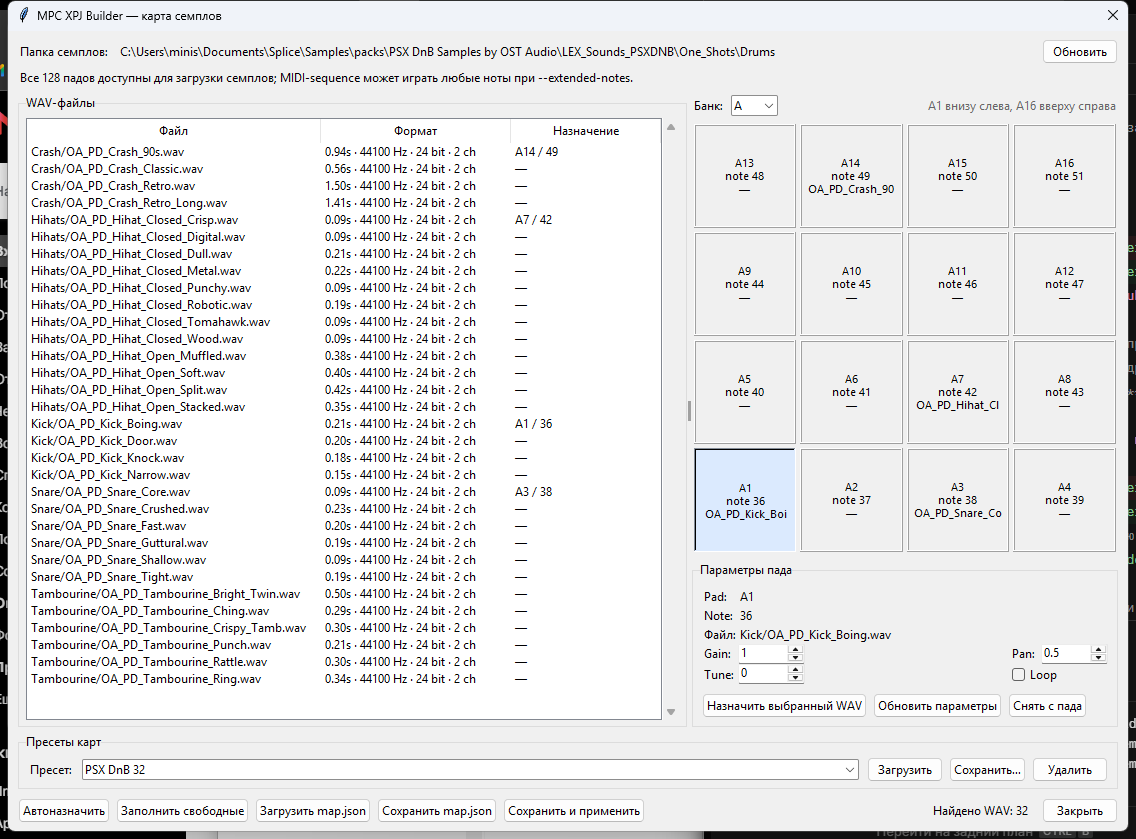
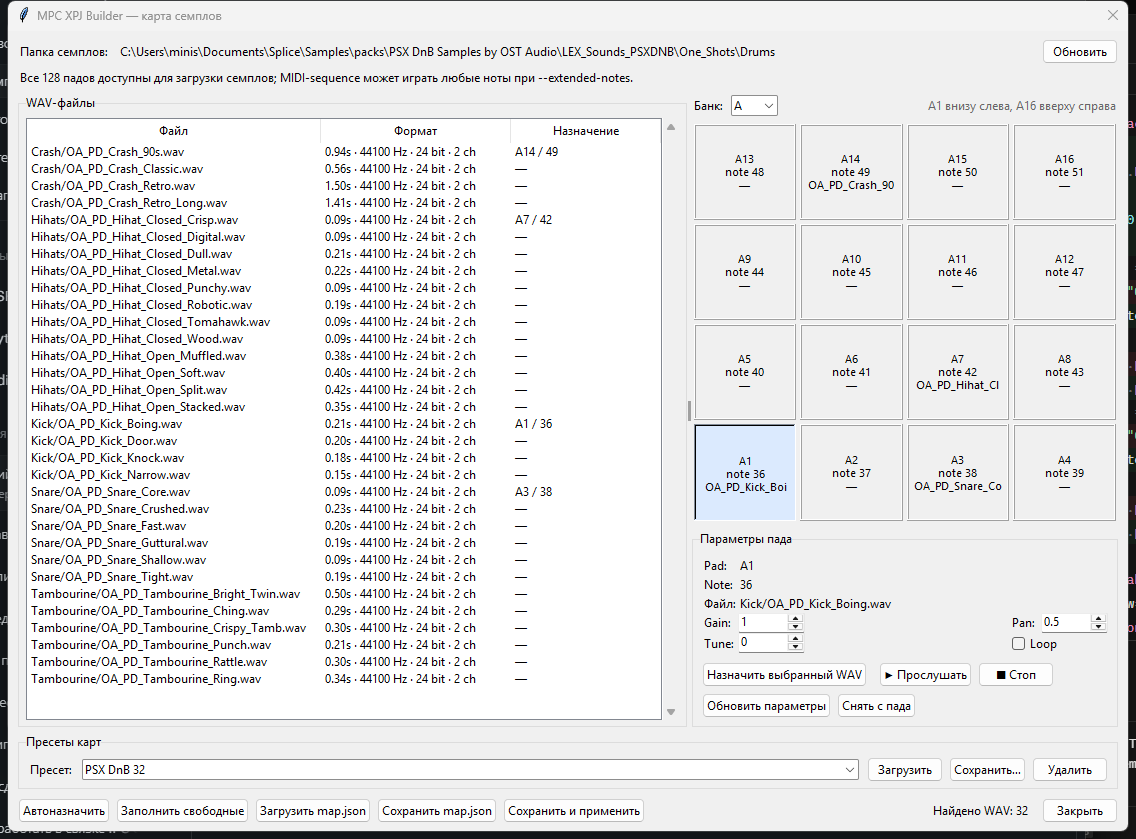
Add WAV preview to map editor

diff --git a/gui_map.py b/gui_map.py
@@ -5,8 +5,9 @@ from __future__ import annotations
 import tkinter as tk
 from pathlib import Path
 from tkinter import filedialog, messagebox, simpledialog, ttk
-from typing import Callable
+from typing import Callable, Sequence
 
+import audio_preview
 import kit_map
 import map_presets
 from errors import ValidationError
@@ -17,6 +18,27 @@ PAD_GRID_ROWS = 4
 def pad_number_at(row: int, column: int) -> int:
     """Номер пада для позиции сетки: A1 внизу слева, A16 вверху справа."""
     return (PAD_GRID_ROWS - 1 - row) * 4 + column + 1
+
+
+def preview_source(
+    items: Sequence[kit_map.WavItem],
+    assignments: dict[int, kit_map.PadAssignment],
+    selected_relative: str | None,
+    selected_pad: int | None,
+    folder: Path | None,
+) -> tuple[Path | None, str | None]:
+    """Выбрать WAV для прослушивания: сначала выделение в списке, потом пад."""
+    if selected_relative:
+        for item in items:
+            if item.relative == selected_relative:
+                return item.path, item.relative
+    if selected_pad is not None and folder is not None:
+        assignment = assignments.get(selected_pad)
+        if assignment is not None:
+            path = folder / assignment.file
+            if path.is_file():
+                return path, assignment.file
+    return None, None
 
 
 class MapEditorWindow(tk.Toplevel):
@@ -56,6 +78,8 @@ class MapEditorWindow(tk.Toplevel):
         self.loop_var = tk.BooleanVar(value=False)
         self.status_var = tk.StringVar(value="Выберите пад и WAV.")
         self.preset_var = tk.StringVar(value="")
+        self.preview = audio_preview.AudioPreview()
+        self._preview_after: str | None = None
 
         self._build_ui()
         self._load_note_map()
@@ -190,14 +214,27 @@ class MapEditorWindow(tk.Toplevel):
             buttons, text="Назначить выбранный WAV", command=self._assign_selected_wav
         )
         self.assign_button.pack(side="left")
+        self.play_button = ttk.Button(
+            buttons, text="▶ Прослушать", command=self._play_preview
+        )
+        self.play_button.pack(side="left", padx=(12, 0))
+        self.stop_button = ttk.Button(
+            buttons, text="■ Стоп", command=self._stop_preview
+        )
+        self.stop_button.pack(side="left", padx=(6, 0))
+
+        edit_buttons = ttk.Frame(detail)
+        edit_buttons.grid(
+            row=6, column=0, columnspan=4, sticky="ew", pady=(6, 0)
+        )
         self.update_button = ttk.Button(
-            buttons, text="Обновить параметры", command=self._update_params
+            edit_buttons, text="Обновить параметры", command=self._update_params
         )
-        self.update_button.pack(side="left", padx=6)
+        self.update_button.pack(side="left")
         self.remove_button = ttk.Button(
-            buttons, text="Снять с пада", command=self._remove_assignment
+            edit_buttons, text="Снять с пада", command=self._remove_assignment
         )
-        self.remove_button.pack(side="left")
+        self.remove_button.pack(side="left", padx=6)
 
         preset_bar = ttk.LabelFrame(self, text="Пресеты карт", padding=(8, 6))
         preset_bar.grid(row=2, column=0, sticky="ew", padx=10, pady=(6, 0))
@@ -433,6 +470,14 @@ class MapEditorWindow(tk.Toplevel):
             )
 
     def _refresh_details(self) -> None:
+        has_selection = bool(self.tree.selection())
+        has_pad_sample = (
+            self.selected_pad is not None
+            and self.selected_pad in self.assignments
+        )
+        self.play_button.configure(
+            state="normal" if (has_selection or has_pad_sample) else "disabled"
+        )
         if self.selected_pad is None:
             self.pad_label_var.set("—")
             self.note_var.set("—")
@@ -464,6 +509,60 @@ class MapEditorWindow(tk.Toplevel):
             self.update_button.configure(state="normal")
             self.remove_button.configure(state="normal")
         self.assign_button.configure(state="normal")
+
+    def _play_preview(self) -> None:
+        selection = self.tree.selection()
+        selected_relative = selection[0] if selection else None
+        path, label = preview_source(
+            self.items,
+            self.assignments,
+            selected_relative,
+            self.selected_pad,
+            self._samples_dir(),
+        )
+        if path is None or label is None:
+            messagebox.showinfo(
+                "Прослушивание",
+                "Выберите WAV в списке или пад с назначенным семплом.",
+                parent=self,
+            )
+            return
+        self._stop_preview()
+        try:
+            duration = self.preview.play(path)
+        except Exception as exc:
+            messagebox.showerror("Прослушивание", str(exc), parent=self)
+            return
+
+        self.status_var.set(f"▶ {label}")
+        source_relative = selected_relative or label
+        item_duration = next(
+            (
+                item.duration
+                for item in self.items
+                if item.relative == source_relative
+            ),
+            None,
+        )
+        seconds = duration or item_duration or 5.0
+        self._preview_after = self.after(
+            max(200, int(seconds * 1000) + 120),
+            self._stop_preview,
+        )
+
+    def _stop_preview(self) -> None:
+        if self._preview_after is not None:
+            try:
+                self.after_cancel(self._preview_after)
+            except Exception:
+                pass
+            self._preview_after = None
+        self.preview.stop()
+        self.status_var.set("Прослушивание остановлено.")
+
+    def destroy(self) -> None:
+        self._stop_preview()
+        super().destroy()
 
     def _read_params(self) -> tuple[float, float, float, bool] | None:
         try:

diff --git a/audio_preview.py b/audio_preview.py
@@ -1,0 +1,115 @@
+"""Прослушивание WAV-семплов без внешних зависимостей."""
+
+from __future__ import annotations
+
+import ctypes
+import sys
+from pathlib import Path
+
+
+class AudioPreview:
+    """Короткое прослушивание WAV через MCI или winsound."""
+
+    def __init__(self) -> None:
+        self._alias: str | None = None
+        self._backend: str | None = None
+        self._winmm = None
+        if sys.platform == "win32":
+            try:
+                self._winmm = ctypes.windll.winmm
+                self._winmm.mciSendStringW.argtypes = [
+                    ctypes.c_wchar_p,
+                    ctypes.c_wchar_p,
+                    ctypes.c_uint,
+                    ctypes.c_void_p,
+                ]
+                self._winmm.mciSendStringW.restype = ctypes.c_uint
+                self._winmm.mciGetErrorStringW.argtypes = [
+                    ctypes.c_uint,
+                    ctypes.c_wchar_p,
+                    ctypes.c_uint,
+                ]
+                self._winmm.mciGetErrorStringW.restype = ctypes.c_int
+            except Exception:
+                self._winmm = None
+
+    @property
+    def available(self) -> bool:
+        return sys.platform == "win32"
+
+    def play(self, path: Path) -> float | None:
+        """Начать воспроизведение. Возвращает длительность в секундах, если известна."""
+        self.stop()
+        if sys.platform != "win32":
+            raise RuntimeError("Прослушивание WAV доступно только на Windows.")
+        target = Path(path)
+        if not target.is_file():
+            raise RuntimeError(f"WAV-файл не найден: {target}")
+
+        mci_error: Exception | None = None
+        if self._winmm is not None:
+            try:
+                return self._play_mci(target)
+            except Exception as exc:
+                mci_error = exc
+                self._close_mci()
+
+        try:
+            return self._play_winsound(target)
+        except Exception as exc:
+            message = str(mci_error or exc)
+            raise RuntimeError(f"Не удалось прослушать WAV: {message}") from exc
+
+    def stop(self) -> None:
+        """Остановить текущее воспроизведение, если оно есть."""
+        if self._backend == "mci":
+            self._close_mci()
+        elif self._backend == "winsound":
+            try:
+                import winsound
+
+                winsound.PlaySound(None, 0)
+            except Exception:
+                pass
+        self._backend = None
+
+    def _play_mci(self, path: Path) -> float | None:
+        assert self._winmm is not None
+        self._alias = f"mpcxpj{id(self) % 100000}"
+        self._mci(f'open "{path}" type waveaudio alias {self._alias}')
+        length_text = self._mci(f"status {self._alias} length")
+        self._mci(f"play {self._alias} from 0")
+        self._backend = "mci"
+        if length_text.strip().isdigit():
+            return int(length_text.strip()) / 1000.0
+        return None
+
+    def _play_winsound(self, path: Path) -> float | None:
+        import winsound
+
+        winsound.PlaySound(
+            str(path),
+            winsound.SND_FILENAME | winsound.SND_ASYNC | winsound.SND_NODEFAULT,
+        )
+        self._backend = "winsound"
+        return None
+
+    def _mci(self, command: str) -> str:
+        assert self._winmm is not None
+        buffer = ctypes.create_unicode_buffer(1024)
+        result = self._winmm.mciSendStringW(command, buffer, len(buffer), None)
+        if result != 0:
+            error = ctypes.create_unicode_buffer(512)
+            self._winmm.mciGetErrorStringW(result, error, len(error))
+            raise RuntimeError(error.value or f"MCI error {result}")
+        return buffer.value
+
+    def _close_mci(self) -> None:
+        if self._alias is None or self._winmm is None:
+            self._alias = None
+            return
+        try:
+            self._mci(f"close {self._alias}")
+        except Exception:
+            pass
+        self._alias = None

diff --git a/tests/test_gui.py b/tests/test_gui.py
@@ -4,8 +4,10 @@ import tempfile
 import unittest
 from pathlib import Path
 
+from audio_preview import AudioPreview
 from gui import build_cli_args
-from gui_map import pad_number_at
+from gui_map import pad_number_at, preview_source
+from kit_map import PadAssignment, scan_wav_items
 from tests.helpers import make_template, write_map, write_wav
 
 
@@ -87,6 +89,64 @@ class MapGridLayoutTests(unittest.TestCase):
             for column in range(4)
         ]
         self.assertEqual(sorted(numbers), list(range(1, 17)))
+
+
+class PreviewSourceTests(unittest.TestCase):
+    def setUp(self) -> None:
+        self._temp = tempfile.TemporaryDirectory()
+        self.addCleanup(self._temp.cleanup)
+        self.samples = Path(self._temp.name) / "samples"
+        write_wav(self.samples / "kick.wav")
+        write_wav(self.samples / "snare.wav")
+        self.items = scan_wav_items(self.samples)
+        self.assignments = {
+            0: PadAssignment(pad_index=0, file="kick.wav"),
+        }
+
+    def test_selected_wav_wins(self) -> None:
+        path, label = preview_source(
+            self.items,
+            self.assignments,
+            "snare.wav",
+            0,
+            self.samples,
+        )
+        self.assertEqual(path, self.samples / "snare.wav")
+        self.assertEqual(label, "snare.wav")
+
+    def test_pad_assignment_is_fallback(self) -> None:
+        path, label = preview_source(
+            self.items,
+            self.assignments,
+            None,
+            0,
+            self.samples,
+        )
+        self.assertEqual(path, self.samples / "kick.wav")
+        self.assertEqual(label, "kick.wav")
+
+    def test_missing_assigned_file_returns_none(self) -> None:
+        assignments = {0: PadAssignment(pad_index=0, file="missing.wav")}
+        self.assertEqual(
+            preview_source(self.items, assignments, None, 0, self.samples),
+            (None, None),
+        )
+
+    def test_nothing_selected(self) -> None:
+        self.assertEqual(
+            preview_source(self.items, {}, None, None, self.samples),
+            (None, None),
+        )
+
+
+class AudioPreviewTests(unittest.TestCase):
+    def test_stop_without_play_is_safe(self) -> None:
+        preview = AudioPreview()
+        preview.stop()
+        preview.stop()
+
+    def test_available_is_bool(self) -> None:
+        self.assertIsInstance(AudioPreview().available, bool)
 
 
 if __name__ == "__main__":

diff --git a/version.py b/version.py
@@ -1,3 +1,3 @@
 """Версия mpc_xpj_builder."""
 
-__version__ = "1.1.1"
+__version__ = "1.2.0"
